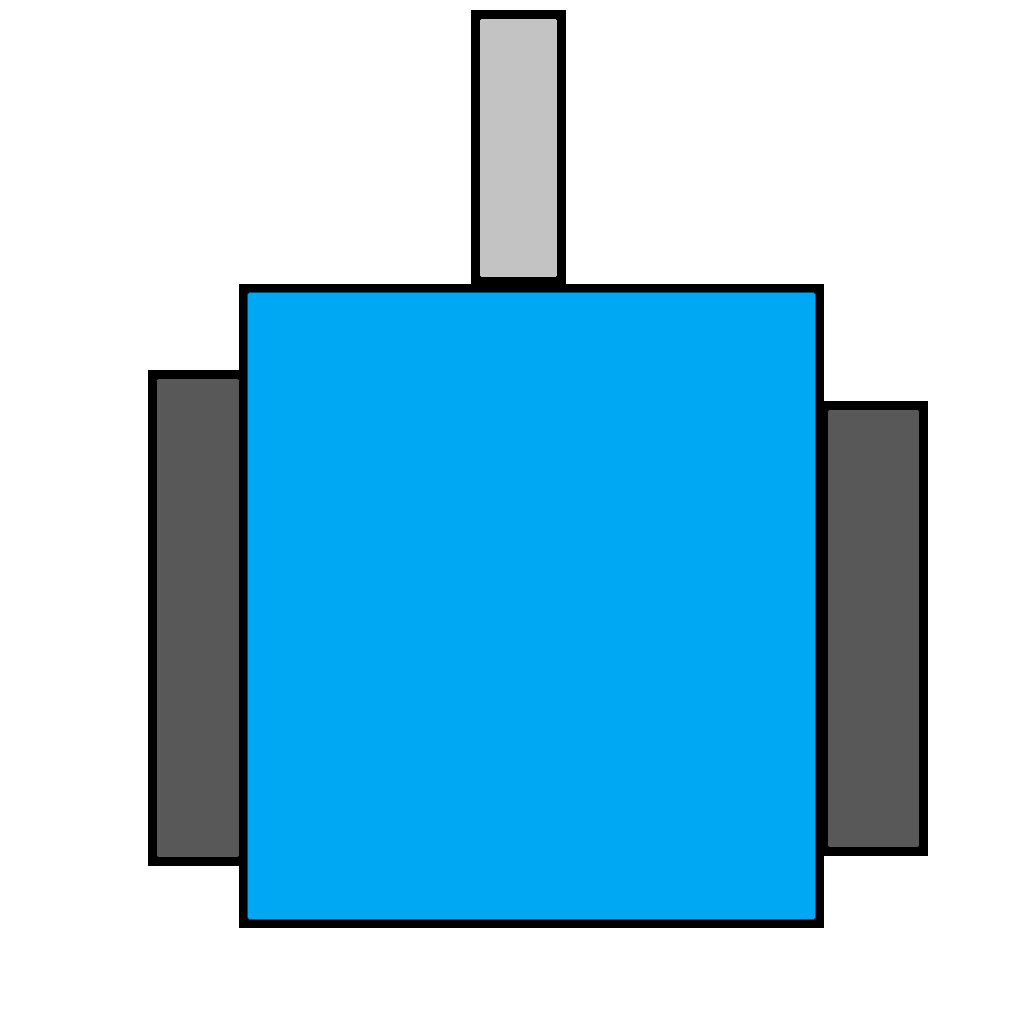
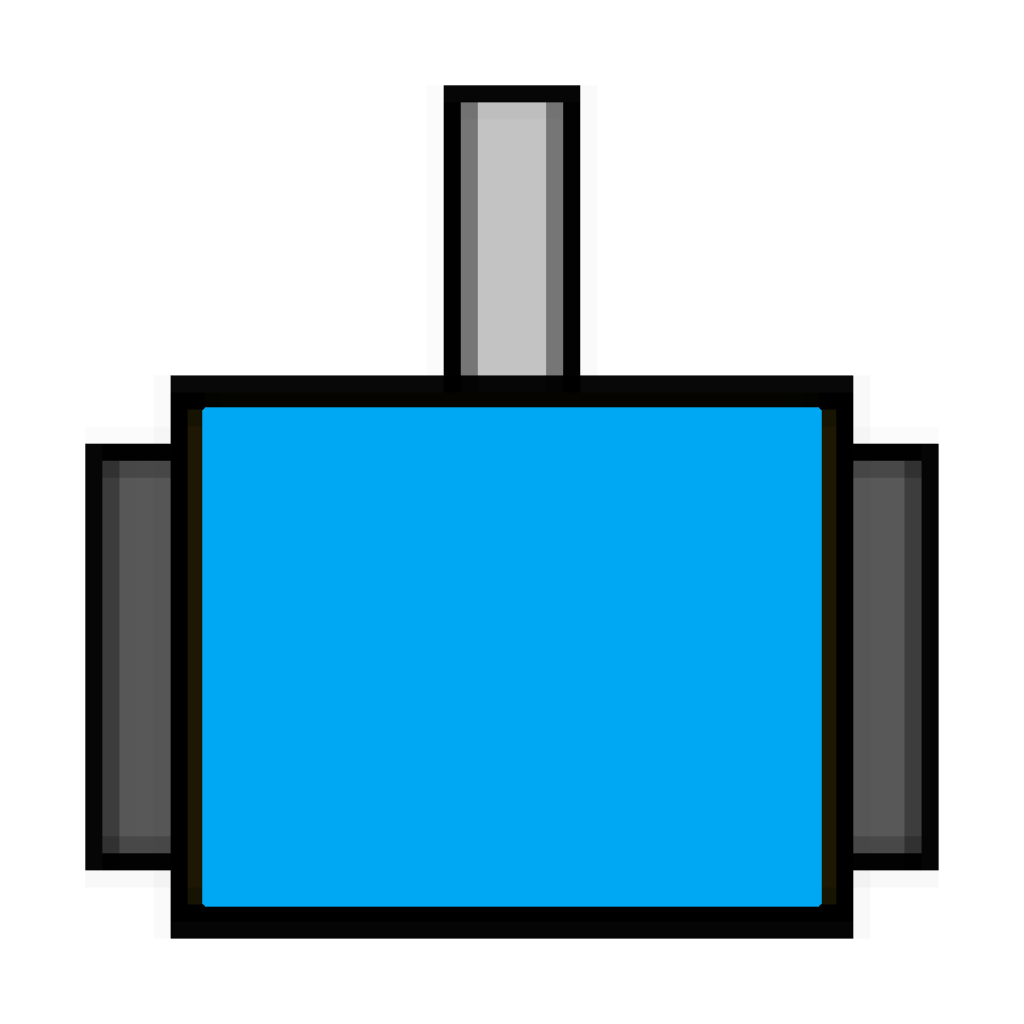
Dodano nowe tekstury

Changed region(s): [[0.0625, 0.0, 0.9375, 0.9375]]

diff --git a/czougi/Editor.cpp b/czougi/Editor.cpp
@@ -6,7 +6,7 @@ using namespace std;
 const int TOOLBAR_WIDTH = VIEW_WIDTH - VIEW_HEIGHT;
 const int LINE_THICKNESS = 2;
 
-const Vector2f FILE_OPERATION_ICON_SIZE(40, 40);
+const Vector2f FILE_OPERATION_ICON_SIZE(45, 45);
 const float FILE_OPERATION_ICON_MARGIN = (TOOLBAR_WIDTH - FILE_OPERATION_ICON_SIZE.x * 3) / 4 ;
 const float FILE_OPERATION_ICON_POSITION_Y = VIEW_HEIGHT - 90;
 
@@ -20,9 +20,9 @@ Editor::Editor(Level level) :
 	level(level),
 	prompt(nullptr),
 	toolbarBackground(Vector2f(TOOLBAR_WIDTH, VIEW_HEIGHT)),
-	playIcon(FILE_OPERATION_ICON_SIZE),
-	saveIcon(FILE_OPERATION_ICON_SIZE),
-	deleteIcon(FILE_OPERATION_ICON_SIZE),
+	playIcon(*playIconTexture),
+	saveIcon(*saveIconTexture),
+	deleteIcon(*deleteIconTexture),
 	horizontalLine(Vector2f(VIEW_HEIGHT, LINE_THICKNESS)),
 	verticalLine(Vector2f(LINE_THICKNESS, VIEW_HEIGHT)),
 	tools {
@@ -43,6 +43,10 @@ Editor::Editor(Level level) :
 	activeToolIndex(0),
 	isSelecting(false)
 {
+	playIcon.setScale(TEXTURE_SCALE);
+	saveIcon.setScale(TEXTURE_SCALE);
+	deleteIcon.setScale(TEXTURE_SCALE);
+
 	for (int i = 0; i < sizeof(tools) / sizeof(unique_ptr<Tool>); i++)
 	{
 		tools[i]->setPosition(VIEW_HEIGHT + TOOL_ICON_MARGIN + (i % 3) * (TOOL_ICON_MARGIN + TOOL_ICON_SIZE), FIRST_ROW_TOOL_ICON_Y + (i / 3) * (TOOL_ICON_SIZE + TOOL_ICON_MARGIN));
@@ -57,10 +61,6 @@ Editor::Editor(Level level) :
 	centerTextOrigin(levelName);
 	levelName.setPosition(VIEW_HEIGHT + TOOLBAR_WIDTH / 2, 80);
 	levelName.setFillColor(Color::Black);
-
-	playIcon.setFillColor(Color::Green);
-	saveIcon.setFillColor(Color::Blue);
-	deleteIcon.setFillColor(Color::Black);
 
 	playIcon.setPosition(VIEW_HEIGHT + FILE_OPERATION_ICON_MARGIN, FILE_OPERATION_ICON_POSITION_Y);
 	saveIcon.setPosition(VIEW_HEIGHT + FILE_OPERATION_ICON_MARGIN * 2 + FILE_OPERATION_ICON_SIZE.x, FILE_OPERATION_ICON_POSITION_Y);

diff --git a/czougi/Editor.h b/czougi/Editor.h
@@ -29,9 +29,9 @@ private:
 	sf::RectangleShape toolbarBackground;
 	sf::RectangleShape horizontalLine;
 	sf::RectangleShape verticalLine;
-	sf::RectangleShape playIcon;
-	sf::RectangleShape saveIcon;
-	sf::RectangleShape deleteIcon;
+	sf::Sprite playIcon;
+	sf::Sprite saveIcon;
+	sf::Sprite deleteIcon;
 	std::unique_ptr<Prompt> prompt;
 
 public:

diff --git a/czougi/Menu.h b/czougi/Menu.h
@@ -5,7 +5,6 @@
 #include "window.h"
 #include "utils.h"
 #include "Keybindings.h"
-#include "Creators.h"
 #include "textures.h"
 #include "Level.h"
 #include "Arena.h"
@@ -15,7 +14,6 @@ class Menu :
     public Scene
 {
 private:
-	// char sterowanie[20];
 	int z2;
 	sf::Sprite Tlo1;
 	sf::Sprite Tytol1;

diff --git a/czougi/textures.h b/czougi/textures.h
@@ -24,6 +24,10 @@ extern sf::Texture* leavesTexture;
 
 extern sf::Texture* eraserTexture;
 
+extern sf::Texture* playIconTexture;
+extern sf::Texture* saveIconTexture;
+extern sf::Texture* deleteIconTexture;
+
 extern sf::Texture* tlo;
 extern sf::Texture* Tytol;
 extern sf::Texture* button1;

diff --git a/czougi/czougi.cpp b/czougi/czougi.cpp
@@ -57,7 +57,7 @@ int main()
                 handleResize(window, event);
         }
 
-        window.clear(Color::Blue);
+        window.clear(Color::Color(0x828282FF));
         window.draw(background);
        
         Scene* newScene = scene->doCalculations(window, deltaTime);
